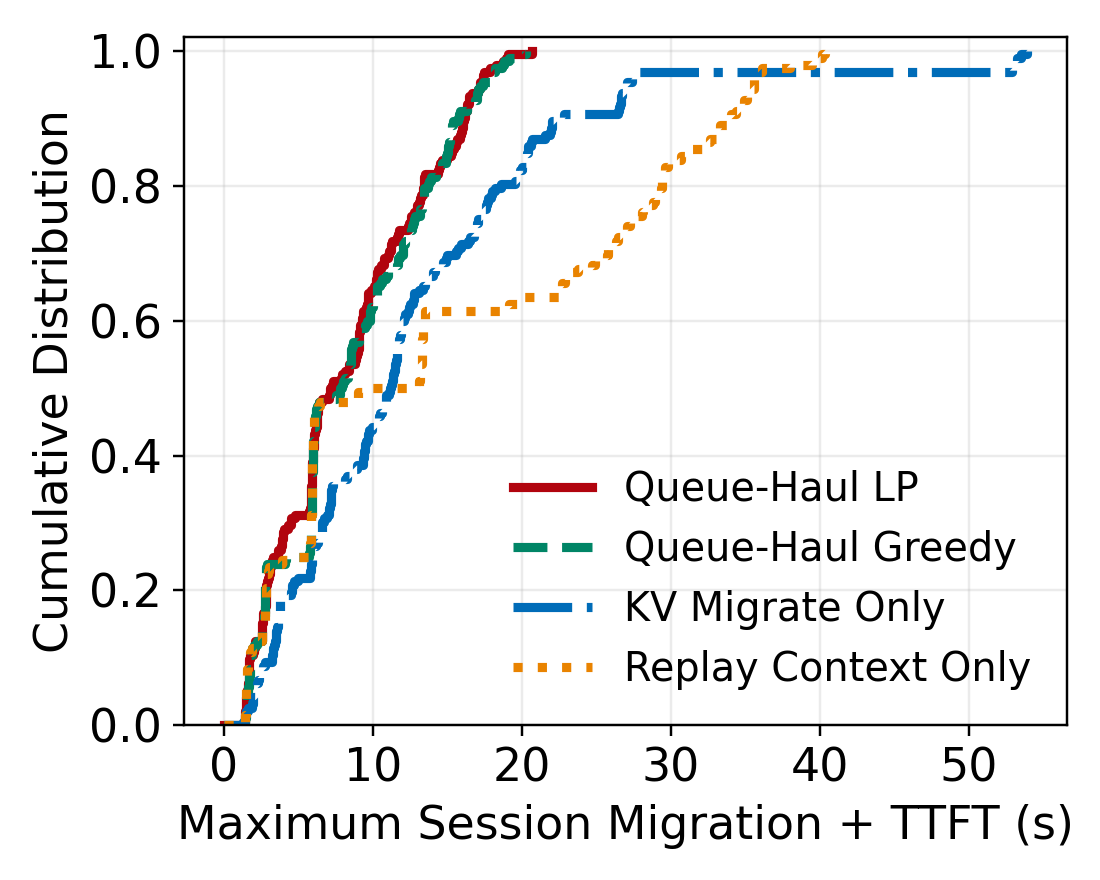
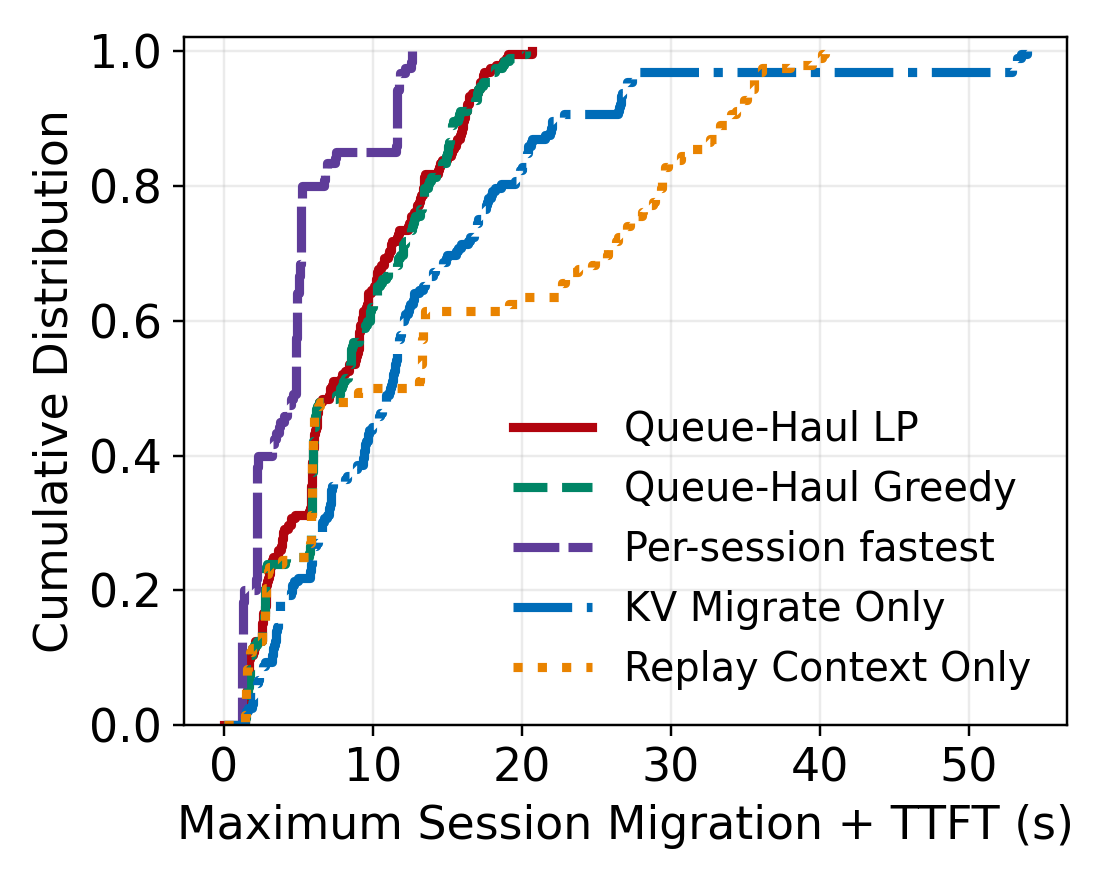
Add per-session fastest to maximum migration CDF

diff --git a/agent-migrate/queue-haul/README.md b/agent-migrate/queue-haul/README.md
@@ -768,8 +768,10 @@ all five workloads, both deadlines, and three episodes within each bandwidth;
 the companion pooled CDF combines all four bandwidths. Regenerate that CDF
 with the earlier trace-sampled 5/10-Gbit/s frontier rows included at raw-sample
 weight using `plot-reduced --out <packing-results> --pooled-with
-<frontier-results>`; this pooling also applies to the maximum-session,
-maximum-session-per-watt, and existing per-watt CDFs.
+<frontier-results> <isolated-fastest-results>`; this pooling also applies to the
+maximum-session, maximum-session-per-watt, and existing per-watt CDFs. The
+retained maximum-session CDF includes one slowest-migration sample from each of
+the 120 isolated-fastest episodes.
 `simulated_pareto_campaign.py` creates 64 deterministic shards for 14 exact
 10K-session idle snapshots: three trace seeds for each workload and five
 trace-derived context anchors. It compares Queue-Haul, static and Lagrangian
